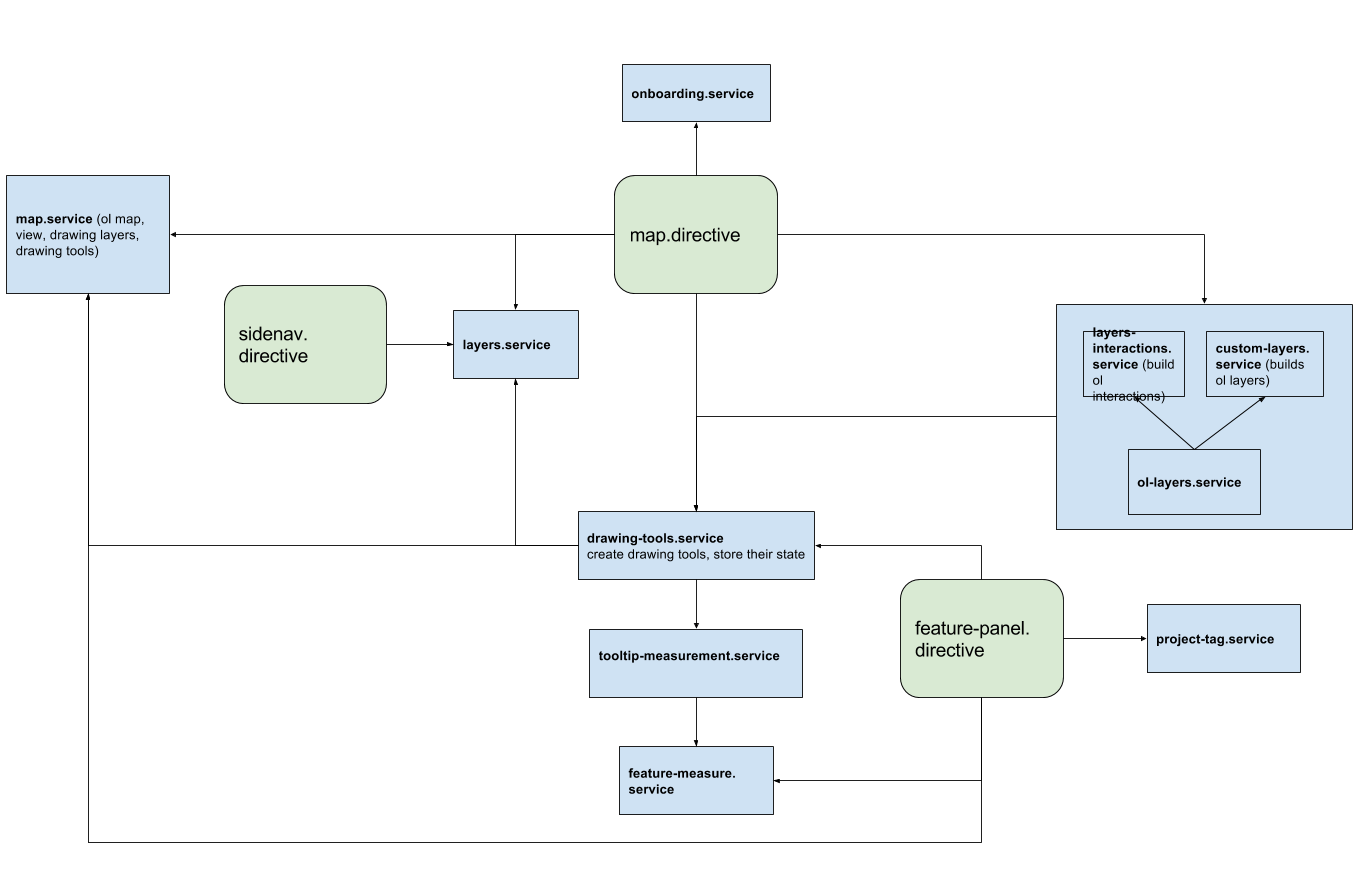
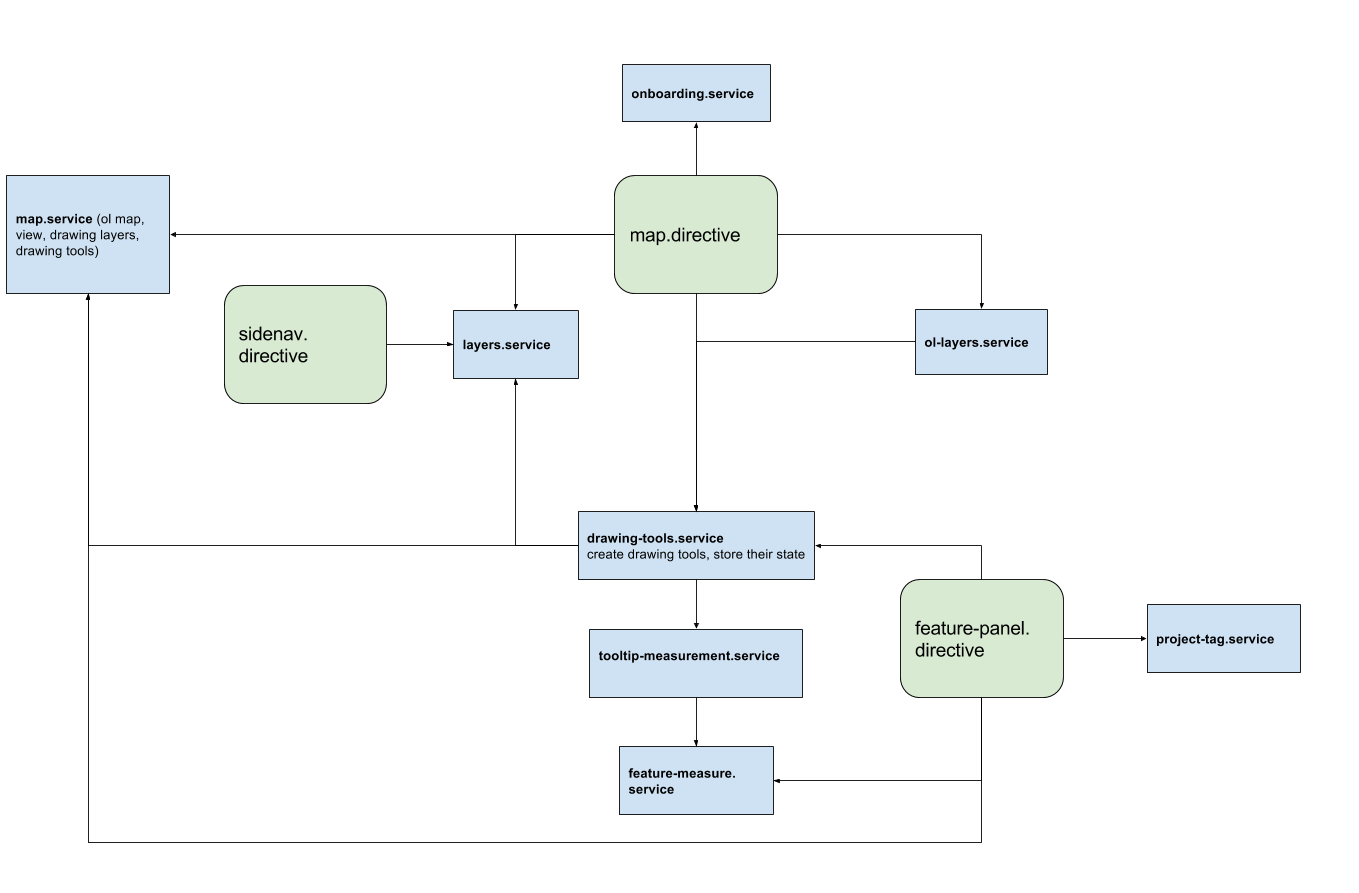
some doc

Changed region(s): [[0.649, 0.3326, 1.0, 0.6047]]

diff --git a/src/app/main/map/ol-layer.service.js b/src/app/main/map/ol-layer.service.js
@@ -5,10 +5,14 @@
     .module('LandApp')
     .factory('olLayerService', olLayerService);
 
+  /** This service responsible of creating OpenLayers Layers and OpenLayers
+  /** Interactions and add them to the  "Land App" layer.   */
   /** @ngInject */
   function olLayerService(ol, $http, $log, $rootScope, $timeout, LAYERS_Z_INDEXES,
                           drawingToolsService)
   {
+    /* Each layer bust have a counter function called _addXXXLayer where XXX is
+    /* the layer.type */
     var _addLayer = _buildAddLayerFunctions();
     var service = {
       addLayerAndInteractions: addLayerAndInteractions

diff --git a/docs/design.md b/docs/design.md
@@ -1,3 +1,3 @@
 The app looks like this:
 
-[![design](architecture.png)](https://docs.google.com/a/geovation.uk/drawings/d/1EjfGPAmiOFx9nJ-d9awDpCdECP5_FpzssPzGrGtvCVY/edit?usp=sharing)
+[![design](architecture.png)](https://docs.google.com/a/geovation.uk/drawings/d/1PPZgv1cPyDMYogF1yKfTLaB0dsOyFSw7dvxk5G08Yw8/edit?usp=sharing)
